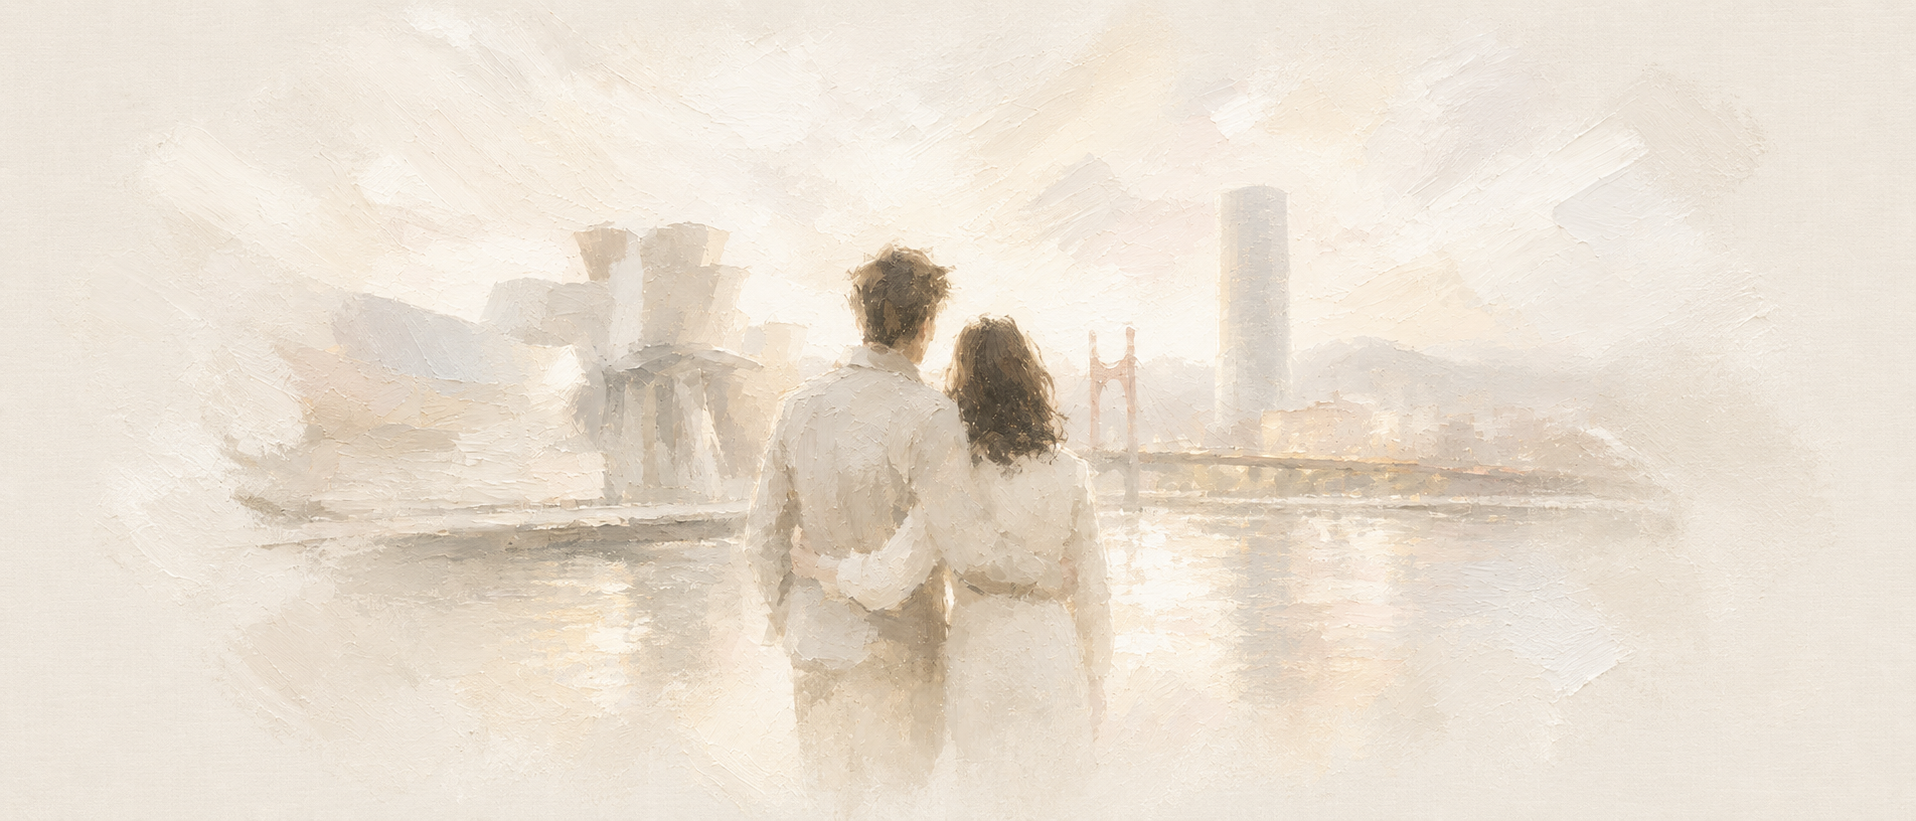
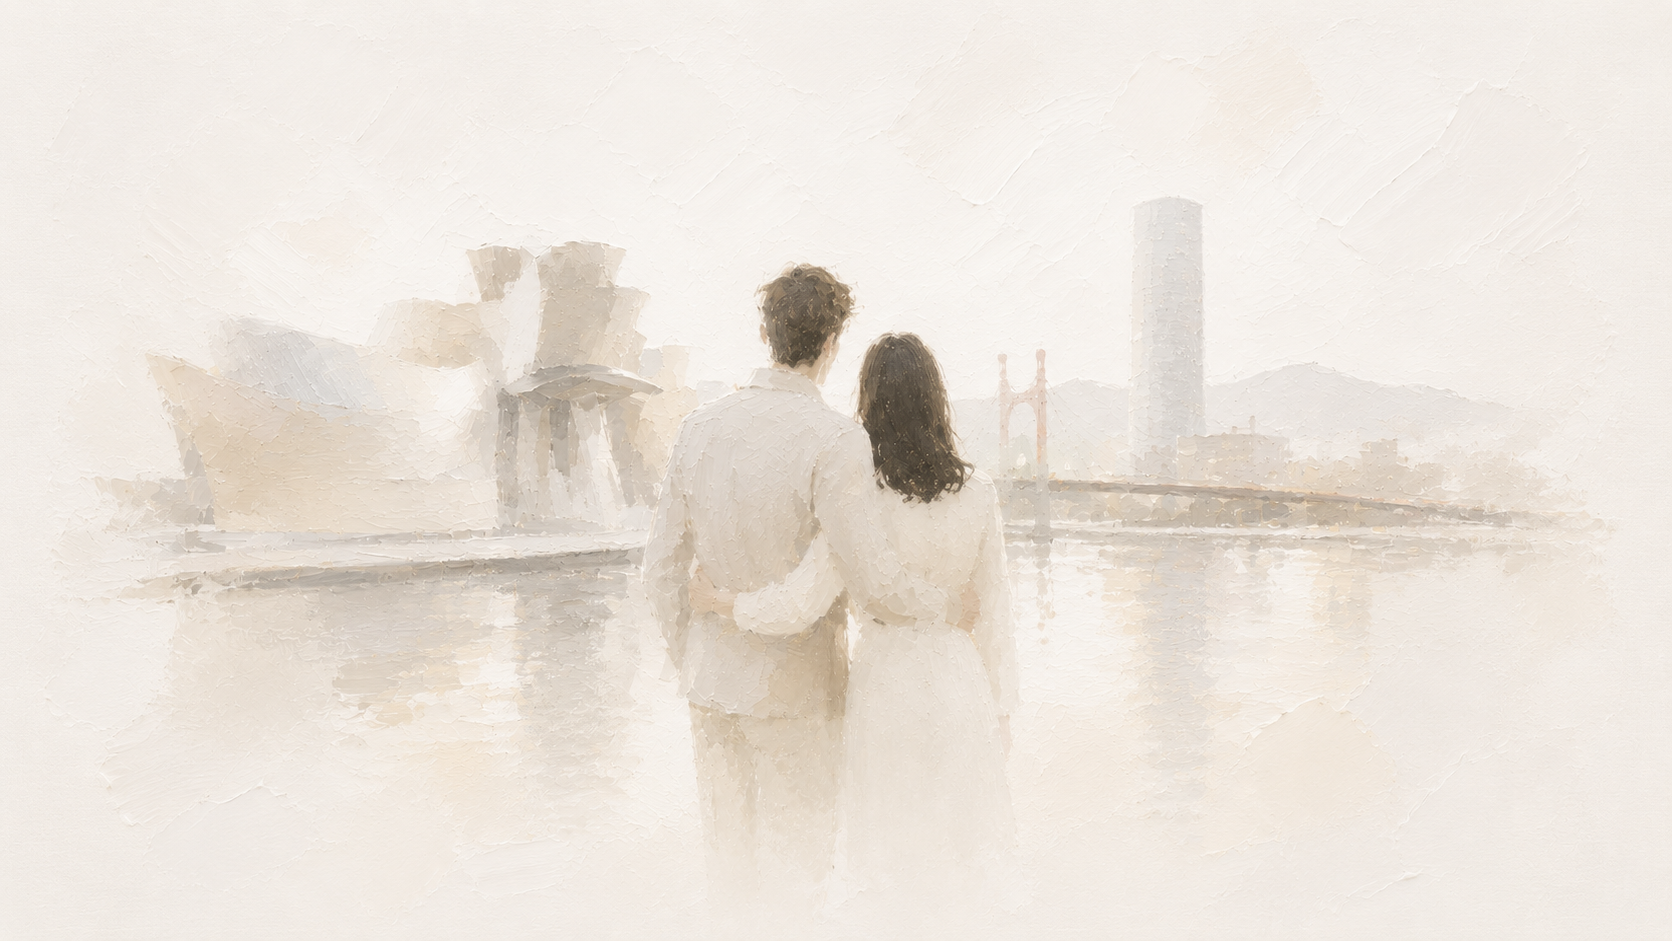
feat: enhance dress code section layout and styling; update event coordinates

diff --git a/components/DressCode.tsx b/components/DressCode.tsx
@@ -5,16 +5,27 @@ import { dressCode } from '@/lib/content';
 
 export function DressCode() {
   return (
-    <Section id="dress-code">
+    <Section id="dress-code" fullBleed>
       <Reveal>
-        <div className="stack stack-md stack-center stack-narrow">
-          <h2 className="display display-md">
+        <div
+          style={{
+            paddingBlock: 'var(--section-pad-y)',
+            display: 'grid',
+            gap: 'var(--space-7)',
+            justifyItems: 'center',
+            textAlign: 'center',
+          }}
+        >
+          <h2
+            className="display display-md"
+            style={{ paddingInline: 'var(--space-6)' }}
+          >
             Дресс-код — {dressCode.rule}
           </h2>
           <div
             style={{
               position: 'relative',
-              width: '100%',
+              width: 'min(100vw - 32px, 1120px)',
               aspectRatio: '4 / 3',
               borderRadius: 'var(--radius-soft)',
               overflow: 'hidden',
@@ -24,7 +35,7 @@ export function DressCode() {
               src="/images/dress_code_horizontal.png"
               alt={`Дресс-код ${dressCode.rule}: примеры подходящей и неподходящей одежды`}
               fill
-              sizes="(max-width: 600px) 100vw, 560px"
+              sizes="(max-width: 1120px) 100vw, 1120px"
               style={{ objectFit: 'cover' }}
             />
           </div>
@@ -36,6 +47,7 @@ export function DressCode() {
               gap: 'var(--space-4)',
               justifyContent: 'center',
               flexWrap: 'wrap',
+              paddingInline: 'var(--space-6)',
             }}
           >
             {dressCode.palette.map((c) => (
@@ -60,8 +72,18 @@ export function DressCode() {
               </div>
             ))}
           </div>
-          <p className="body">{dressCode.short}</p>
-          <p className="body-muted">{dressCode.notes}</p>
+          <p
+            className="body"
+            style={{ maxWidth: 560, paddingInline: 'var(--space-6)' }}
+          >
+            {dressCode.short}
+          </p>
+          <p
+            className="body-muted"
+            style={{ maxWidth: 560, paddingInline: 'var(--space-6)' }}
+          >
+            {dressCode.notes}
+          </p>
         </div>
       </Reveal>
     </Section>

diff --git a/components/Hero.tsx b/components/Hero.tsx
@@ -41,11 +41,25 @@ export function Hero() {
           paddingInline: 'var(--space-6)',
         }}
       >
-        <p className="caption" style={{ color: '#FAF7F2', opacity: 0.85 }}>
+        <p
+          className="caption"
+          style={{
+            color: '#FAF7F2',
+            opacity: 0.9,
+            fontSize: 'clamp(16px, 2.2vw, 22px)',
+          }}
+        >
           {event.project}
         </p>
         <h1 className="display display-xl">{event.names}</h1>
-        <p className="caption tabular" style={{ color: '#FAF7F2', opacity: 0.85 }}>
+        <p
+          className="caption tabular"
+          style={{
+            color: '#FAF7F2',
+            opacity: 0.9,
+            fontSize: 'clamp(16px, 2.2vw, 22px)',
+          }}
+        >
           {event.dateLabel}
         </p>
       </div>

diff --git a/components/Program.tsx b/components/Program.tsx
@@ -35,8 +35,18 @@ export function Program() {
                   borderTop: i === 0 ? 'none' : '1px solid var(--line)',
                 }}
               >
-                <span className="caption tabular">{item.time}</span>
-                <span className="display display-sm">{item.title}</span>
+                <span
+                  className="caption tabular"
+                  style={{ fontSize: 'clamp(14px, 1.7vw, 17px)' }}
+                >
+                  {item.time}
+                </span>
+                <span
+                  className="display"
+                  style={{ fontSize: 'clamp(19px, 2.7vw, 25px)' }}
+                >
+                  {item.title}
+                </span>
               </li>
             ))}
           </ol>

diff --git a/components/Footer.tsx b/components/Footer.tsx
@@ -4,10 +4,7 @@ export function Footer() {
   return (
     <Section variant="dark">
       <div className="stack stack-center" style={{ gap: 'var(--space-3)' }}>
-        <p className="caption" style={{ color: '#DDE3D4' }}>С любовью</p>
-        <p style={{ margin: 0, color: '#DDE3D4', opacity: 0.85 }}>
-          По вопросам — организатор: [phone redacted]
-        </p>
+
       </div>
     </Section>
   );

diff --git a/lib/tokens.ts b/lib/tokens.ts
@@ -17,7 +17,7 @@ export const event = {
   dateLabel: '4 июля 2026',
   city: 'Истринский район',
   address: 'Истринский район, СНТ «Рассвет», участок 104',
-  coords: { lat: 55.501972, lon: 37.819343 },
+  coords: { lat: 56.024305, lon: 36.894896 },
   mapZoom: 16,
 } as const;
 